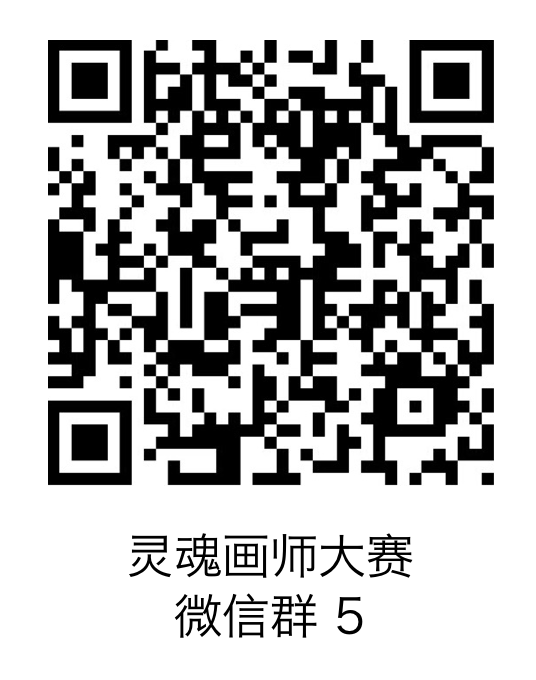
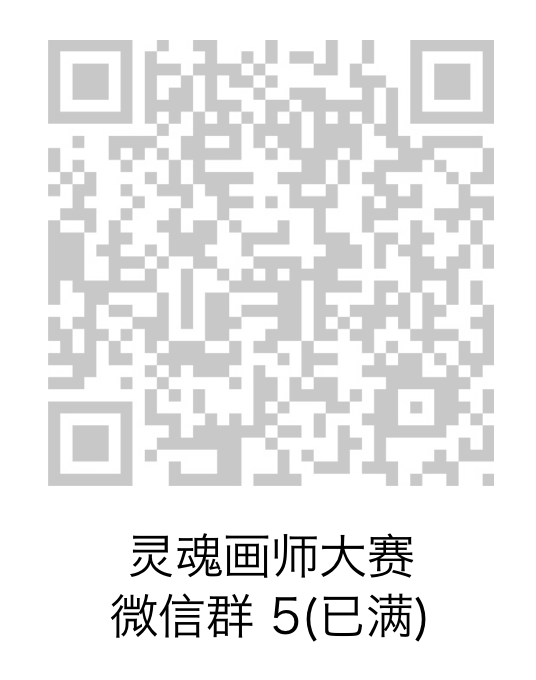
add qrcode6

diff --git a/event.html b/event.html
@@ -41,7 +41,7 @@
       <h3>奖项设置</h3>
       <p>1. 三名优胜画师，每人颁发 10,000 元奖金；<br>2. 七名优秀画师，每人颁发 3,000 元奖金；<br>3. 有机会获邀成为我们的签约设计师。<a href="https://sunday37.com/" class="link-8">（关于我们）</a></p>
       <h3>参赛方式</h3>
-      <p>1. 投稿邮箱：hi@sunday37.com ；<br>2. 请于邮件标题注明「灵魂画师投稿+姓名+手机号」，将作品的源文件压缩 zip 贴于邮件附件，注意附件文件名应包含姓名；<br>3. 还可在正文附带个人简介若干、作品集，或其它你希望我们了解你的信息。<br>4. <B>请加活动微信群（1234已满，请入群5）：</B></p><img src="images/Artboard-1.png" width="180"><img src="images/Artboard-2.png" width="180"><img src="images/Artboard-5.png" width="180">
+      <p>1. 投稿邮箱：hi@sunday37.com ；<br>2. 请于邮件标题注明「灵魂画师投稿+姓名+手机号」，将作品的源文件压缩 zip 贴于邮件附件，注意附件文件名应包含姓名；<br>3. 还可在正文附带个人简介若干、作品集，或其它你希望我们了解你的信息。<br>4. <B>请加活动微信群（12345已满，请入群6）：</B></p><img src="images/Artboard-1.png" width="180"><img src="images/Artboard-2.png" width="180"><img src="images/Artboard-5.png" width="180"><img src="images/Artboard-6.png" width="180">
       <h3>时间</h3>
       <p>投稿启动：2018年5月1日<br>投稿截止：2018年5月20日（已延长）<br>项目评选：2018年5月21日<br>结果公布：2018年5月28日</p>
       <h3>参赛须知</h3>
